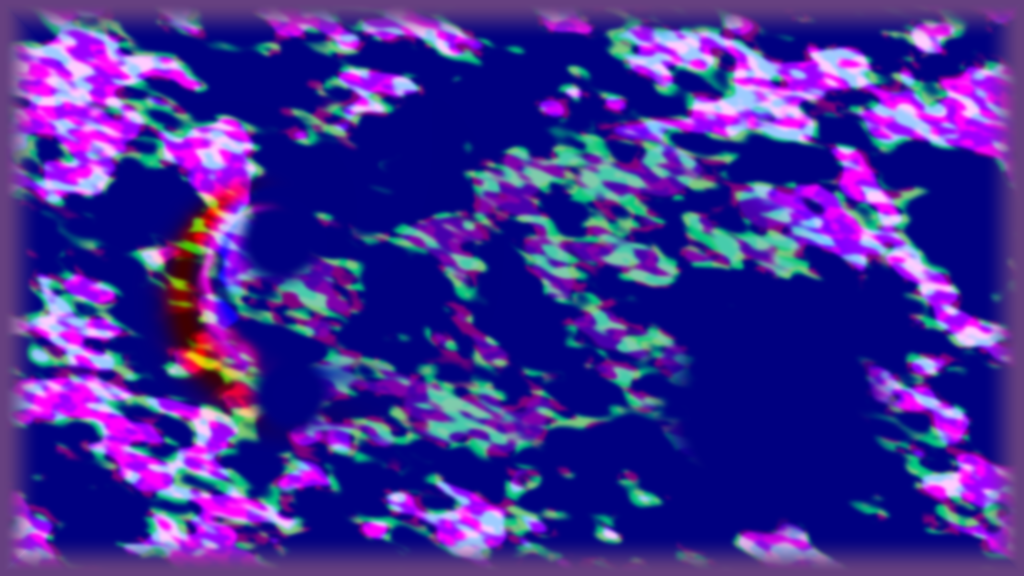
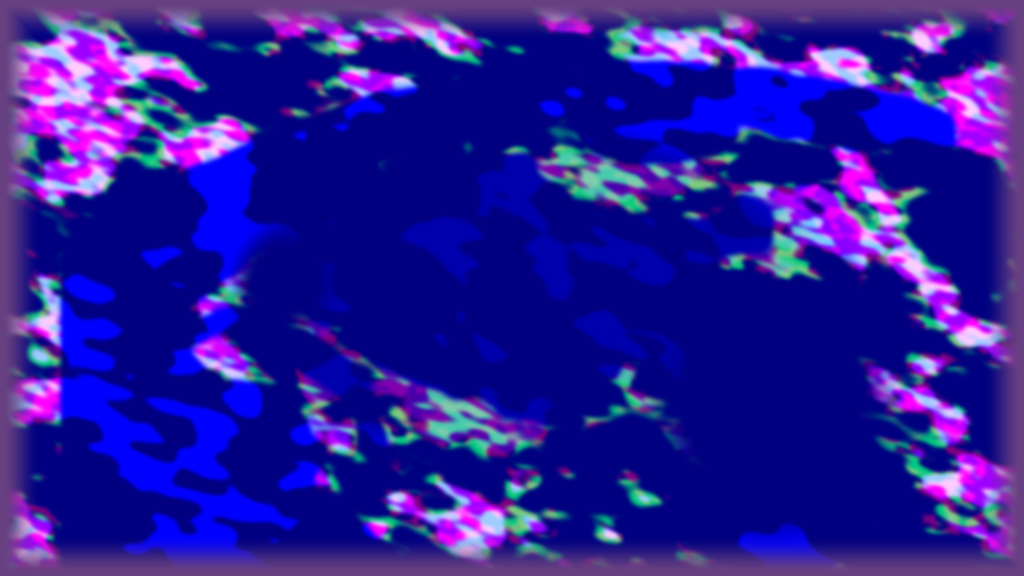
Two storms: the far low on the cyclone's sheet in open sea, patches with white tops, map clear of the body's outline and other land

diff --git a/src/places/reveal/shared/weather.ts b/src/places/reveal/shared/weather.ts
@@ -16,18 +16,15 @@ export const FOG_KM = 0.7;
 /** Km a second: staged far faster than weather, so the held frame is seen to live. */
 export const LOW_DRIFT: [number, number] = [5.4, 1.5];
 /** The small low far off toward the planet's edge, px of the master: the wind winds round it as round the cyclone, a quarter as wide. */
-export const LOW2 = { x: 360, y: 1150 };
-// How many storms the sea holds: 1 the cyclone alone, 2 with the far low at the head of its front, 3 with a small one to the
-// south-west. (The same number is given to assets-src/reveal/sky/make_weather.py as STORMS, which clears the sea round each.)
-export const STORMS = 3;
+export const LOW2 = { x: 400, y: 1560 };
+// How many storms the sea holds: 1 the cyclone alone, 2 with the far low. (The same number is given to
+// assets-src/reveal/sky/make_weather.py as STORMS, which clears the sea round each.)
+export const STORMS = 2;
 // The other storms, each drawn by the cyclone's sheet (sky/index.ts): where (px of the master), the half width of its sheet (the
 // cyclone's is 1250), how it is turned, where in the photographs its arms are taken from, and how much thinner it stands.
-export const OTHER_STORMS = [
-  { at: LOW2, half: 680, turn: 2.1, arms: [0.37, 0.61], thinner: 0.1 },
-  { at: { x: 470, y: 2760 }, half: 640, turn: 4.4, arms: [0.71, 0.23], thinner: 0.2 },
-] as const;
+export const OTHER_STORMS = [{ at: LOW2, half: 900, turn: 0.32, arms: [0.37, 0.61], thinner: 0.0 }] as const;
 // How far the weather systems travel down the wind for each unit of the weather's clock, km.
-export const SYSTEMS_RUN = 2.5;
+export const SYSTEMS_RUN = 0.9;
 /** The rectangle the map of the weather systems lies on (sky/weather.png, assets-src/reveal/sky/make_weather.py), as COVER_RECT is given. */
 export const WEATHER_RECT: [number, number, number, number] = [X(-2600), Z(-1400), 1 / (10800 * KM), 1 / (6075 * KM)];
 const LOW_MUCH = 1.0;
@@ -196,7 +193,7 @@ float lowHeld = 0.0;
 // The body of the low field at the point last asked of lowDepth, soft, 0 to 1: where its clusters, fronts and decks stand, with
 // none of their cells. It is what the moon shows of the weather by night.
 float lowBody = 0.0;
-float lowAmount(vec2 at, vec2 w) {
+float lowAmount(vec2 at) {
   vec3 stands = coverAt(at);
   float lake = smoothstep(100.0, 230.0, length(at - vec2(${f(X(AT.lake.x))}, ${f(Z(AT.lake.y))})));
   // The sky stands clear over the lake of the Eye, where the rise begins.
@@ -219,8 +216,14 @@ float lowAmount(vec2 at, vec2 w) {
 // chains is clear; and the streak photograph read sharp is the thin veil the wind draws out among them.
 float lowDepth(vec2 at) {
   vec4 gAt = GRADS(at);
-  vec2 w = lowGround(at);
-  float amount = lowAmount(at, w);
+  float amount = lowAmount(at);
+  lowWeigh = vec3(0.0);
+  lowNear = vec2(0.0);
+  lowBody = 0.0;
+  // (Where no cloud can stand, over the body and the clear sea, nothing more is worked out: the wind's map is the dear part of
+  // this function and most of the picture below orbit is such ground. The one change across the pixel that the reads below
+  // are made with, of the ground itself, is taken above, and every other is worked out from it: see GRADS and windG.)
+  if (amount <= 0.02 && lowHeld <= 0.0) return 0.0;
   // (The wind over an ocean does not blow straight: it meanders over a thousand kilometres, and within a few hundred it wanders
   // a few degrees either way. The ground is bent so before the wind's map is taken, by a field that stands on the planet.)
   vec2 bent = at + vec2(
@@ -259,10 +262,6 @@ float lowDepth(vec2 at) {
   // (A deck stands whole over such a place: it has no streets to draw out.)
   float calm = dot(windFp, windFp);
   float slack = smoothstep(0.1, 0.4, calm);
-  lowWeigh = vec3(0.0);
-  lowNear = vec2(0.0);
-  lowBody = 0.0;
-  if (amount <= 0.02 && lowHeld <= 0.0) return 0.0;
   // (The systems, read first, so most of the open sea, which is clear, costs one read and no more: red how much cloud a
   // system holds, green the veil, blue its kind (0 open cells, 0.5 cumulus in chains, 1 closed cells). The reads are all at
   // places and fineness worked out above: see GRADS.)
@@ -302,7 +301,7 @@ float lowDepth(vec2 at) {
   if (wound * closed > 0.0) whole = clamp(0.35 + 0.5 * cloudAt(uMatPopcorn, (at - systemsRun() - uWx * vec2(6.0, 2.0)) / 170.0 + vec2(0.21, 0.63), gAt / 170.0 * lowSoft, 0.34), 0.0, 1.0);
   // (A body is white and whole at its tops and has an edge: the wind-drawn photograph says where it is thick, the larger lay of
   // cumulus breaks it into tops a few pixels wide from orbit with the sea dark between them, and the smaller lay lumps each top.)
-  float form = mix(pow(max(chain - 0.4, 0.0), 1.3), 1.0, 0.7 * smoothstep(0.9, 0.99, systems.r));
+  float form = pow(max(chain - 0.4, 0.0), 1.3);
   float tops = form * (0.42 + 0.58 * smoothstep(0.45, 1.25, puff)) * (0.55 + 0.45 * smoothstep(0.35, 0.9, cell));
   float stood = smoothstep(0.16, 0.34, tops) * (1.0 + 2.6 * tops);
   float dense = max(knots * (0.25 + 1.5 * density) - 1.0, 0.0) + closed * cluster * mix(stood, 1.4 * whole, wound);

diff --git a/src/places/reveal/sky/index.ts b/src/places/reveal/sky/index.ts
@@ -192,7 +192,7 @@ void main() {
 // The cyclone: drawn from the Builder's photographs of wind-drawn streaks and of small cumulus, wound round its eye (the cyclone of round 19:
 // the photograph of a whole cyclone that stood here in round 25 read soft and flat at native size).
 // How another storm is drawn out (the cyclone's sheet, below): so much shorter all round, less so much on the side at this angle.
-const DRAWN_OUT = [0.35, 0.8, 0.9] as const;
+const DRAWN_OUT = [1.3, 2.0, 0.9] as const;
 // The part of its square sheet that another storm can reach, as [left, bottom, right, top] with the square -1 to 1: the sheet is
 // cut to it, so the clear sea round a storm that is drawn out to one side is not paid for.
 function reachOfOther(): [number, number, number, number] {
@@ -324,6 +324,8 @@ void main() {
   // Where it is thin it is haze over the sea, and blue as haze is; only the bands are white.
   // (A thin veil of high cloud lies over all of it and is drawn off one side, away down the wind, in long fine threads.)
   float veil = 0.04 * pow(1.0 - smoothstep(0.02, 0.85, r), 1.5) + 0.1 * (1.0 - smoothstep(0.004, 0.05, r));
+  // (Another storm's sheet is cut to its reach: its veil ends with it, well inside the cut.)
+  veil *= 1.0 - uOther.z * smoothstep(0.45, 0.85, r * max(shorter, 1.0));
   float bands = 0.96 * min(1.5 * thick, 1.0);
   float alpha = bands + veil * (1.0 - bands);
   colour = mix(dot(colour, vec3(0.3, 0.55, 0.15)) * vec3(0.6, 0.74, 0.98), colour, bands / max(alpha, 1e-3));
@@ -502,9 +504,9 @@ export function create(ctx: Context): Piece {
   });
   sheet('storm', quad({ x: AT.storm.x - 40, y: AT.storm.y }, 256, 80, 7, 0.03), STORM_FRAGMENT, { uPicture: { value: data('mat/storm.jpg', false) } });
   const cyclone = sheet('cyclone', quad(AT.cyclone, 1250, 1250, 6, 0), CYCLONE_FRAGMENT, { uStreaks: { value: data('mat/streaks.jpg', true) }, uOther: { value: new THREE.Vector4(0, 0, 0, 0) } });
-  // The other storms of the sea (shared/weather.ts, OTHER_STORMS): the far low at the head of its front and a small one to the
-  // south-west, each the cyclone's own sheet at its own size, turned its own way, with arms from another place in the photographs
-  // and no eye. They travel with the weather systems, slowly, down the wind.
+  // The other storms of the sea (shared/weather.ts, OTHER_STORMS): the far low, on the cyclone's own sheet at its own size, turned
+  // its own way, with arms from another place in the photographs, no eye, and drawn out on one side into its front. It travels
+  // with the weather systems, slowly, down the wind.
   const reach = reachOfOther();
   const others = OTHER_STORMS.slice(0, STORMS - 1).map((o) =>
     sheet(

diff --git a/assets-src/reveal/sky/make_weather.py b/assets-src/reveal/sky/make_weather.py
@@ -5,13 +5,15 @@ Writes public/assets/reveal/sky/weather.png, 1024 x 576, on the rectangle WEATHE
 (px of the master: x -2600 to 8200, y -1400 to 4675), as the systems stand at the titan frame (10027). They travel slowly with
 the far low; the cloud itself is the photographs, which stream through them faster (see lowDepth in weather.ts).
 
-  red    how much low cloud a system holds: 0 clear sea, about 0.5 broken cumulus at the edge of a patch, 1 a front, a storm or a deck
+  red    how much low cloud a system holds: 0 clear sea, about 0.5 broken cumulus at the edge of a patch, 1 the heart of a patch
   green  how much thin veil the wind draws out there
-  blue   the kind: 0 open cells (rings of cloud round clear air, behind the front), 0.5 cumulus in chains, 1 closed cells
+  blue   the kind: 0.5 cumulus in chains, 1 closed cells
+
+The map is clear round the two storms (each drawn by its own sheet), over the body's outline (public/assets/reveal/land/relief-a.png,
+read only) and over the other land.
 
 and then sets the red of public/assets/reveal/sky/cover.png (made by make_cover.py, which stands on the ground) to the cloud that
-other land and the ice hold: a deck over the ice edge, banks on the coast that faces the wind, cumulus banked against each island on the side the wind comes from and a street
-in its lee. Green and blue of cover.png are not touched. The mask of other land and ice is the ocean builder's
+other land and the ice hold: a deck over the ice edge, banks off the coast that faces the wind and a street in the lee of each island, none over the land itself. Green and blue of cover.png are not touched. The mask of other land and ice is the ocean builder's
 (assets-src/reveal/land/ocean/ocean-mask.png: px of the master x -1800 to 7416, y -800 to 4834; red other land, green ice); it is
 read and never copied. Without the mask the red of cover.png is left as it is.
 
@@ -33,9 +35,11 @@ MASK_RECT = (-1800.0, -800.0, 7416.0, 4834.0)
 W, H = 1024, 576
 X0, Y0, WIDE, HIGH = -2600.0, -1400.0, 10800.0, 6075.0
 # The far low (LOW2 of weather.ts), the cyclone, the middle of the body, and the way the low wind blows (px of the master, y down).
-LOW2 = (360.0, 1150.0)
+LOW2 = (400.0, 1560.0)
 CYCLONE = (5557.0, 3007.0)
-LOW3 = (470.0, 2760.0)
+# (Half the width of the far low's sheet, and how far the systems travel through the hold: OTHER_STORMS and SYSTEMS_RUN of weather.ts.)
+LOW2_HALF = 900.0
+TRAVEL = 95.0
 # How many storms the sea holds: 1 the cyclone alone, 2 with the far low and its front, 3 with the small one to the south-west.
 STORMS = int(os.environ.get('STORMS', '3'))
 BODY = (3000.0, 1750.0, 2900.0, 1700.0)
@@ -79,40 +83,32 @@ def weather():
     kind = 0.5 + 0.5 * smooth(0.25, 0.75, patch)
     green = 0.8 * smooth(0.45, 0.55, field) * smooth(0.4, 0.7, noise(rng, 7.0, 3.0, turn))
 
-    # The far low and its front: a comma. The band winds out of the low as the low wind winds into it (weather.ts: the turn
-    # falls by 2 for each e-fold of the distance), wide at the head and drawn thin down the tail, which ends in clear air.
-    dx, dy = mx - LOW2[0], my - LOW2[1]
-    r = np.maximum(np.hypot(dx, dy), 1.0)
-    th = np.arctan2(dy, dx)
-    # (How far round the arm a point is: the arm is the curve th + 2 ln r = const; s runs 0 at the head to 1 at the tail's end.)
-    phase = th + 2.0 * np.log(r / 95.0) - np.radians(47.0)
-    off = (phase + np.pi) % (2.0 * np.pi) - np.pi
-    along = np.log(r / 380.0) / np.log(1700.0 / 380.0)
-    width = 0.15 + 40.0 / r
-    ragged = 1.2 * width * (noise(rng, 6.0, 6.0) - 0.5)
-    band = np.exp(-((off + ragged) / width) ** 2) * smooth(-0.3, 0.05, along) * (1.0 - smooth(0.7, 1.05, along))
-    # (The low itself is a storm drawn by its own sheet, sky/index.ts: the band is its front, and it starts at the storm's rim.)
-    front = 0.88 * np.clip(band, 0.0, 1.0)
-    # (Ahead of the front, on the inside of the arm, the air is dry: a clear slot. Behind it, outside, cold air and open cells.)
-    ahead = np.exp(-((off + 2.0 * width) / (1.0 * width)) ** 2) * smooth(0.1, 0.4, along) * (1.0 - smooth(0.85, 1.1, along))
-    behind = np.exp(-((off - 3.2 * width) / (2.2 * width)) ** 2) * smooth(0.25, 0.5, along) * (1.0 - smooth(0.9, 1.2, along))
-    comma = 1.0 if STORMS >= 2 else 0.0
-    front, ahead, behind, _ = front * comma, ahead * comma, behind * comma, 0.0
-    red = red * (1.0 - 0.9 * ahead)
-    red = np.maximum(red, 0.5 * behind * (0.5 + 0.5 * smooth(0.35, 0.6, mid)))
-    kind = kind * (1.0 - behind)
-    red = np.maximum(red, front)
-    kind = np.maximum(kind, front)
-    green = green * (1.0 - 0.8 * ahead)
-
-    # The other storms are drawn by their own sheets (OTHER_STORMS of weather.ts): the sea stands clear under and round each,
-    # as round the cyclone, so nothing of this map is on a storm's disc.
-    for n, (sx, sy, half) in enumerate(((LOW2[0], LOW2[1], 680.0), (LOW3[0], LOW3[1], 640.0))):
-        if STORMS < n + 2:
-            break
-        clear = smooth(0.42 * half, 0.8 * half, np.hypot(mx - sx, my - sy))
+    # The far low is a storm drawn by its own sheet (OTHER_STORMS of weather.ts), front and all: the sea stands clear under and
+    # round it, as round the cyclone, so nothing of this map is on a storm's disc.
+    if STORMS >= 2:
+        clear = smooth(0.35 * LOW2_HALF, 0.7 * LOW2_HALF, np.hypot(mx - LOW2[0], my - LOW2[1]))
         red, green = red * clear, green * clear
         kind = 0.5 + (kind - 0.5) * clear
+
+    # No weather of this map over the body's outline nor over the other land. (The map travels down the wind through the hold,
+    # TRAVEL px of the master at the most: it is clear wherever the land will be under it.)
+    relief = np.asarray(Image.open(os.path.join(PUB, '..', 'land', 'relief-a.png')).convert('RGB'), dtype=np.float32)[..., 2] / 255.0
+    rw, rh = 5295.59, 5295.59 * 9 / 16
+    u = (mx - (2983.67 - rw / 2)) / rw * relief.shape[1] - 0.5
+    v = (my - (1727.13 - rh / 2)) / rh * relief.shape[0] - 0.5
+    body = ndimage.map_coordinates(relief, [v, u], order=1, mode='constant', cval=0.0) > 0.28
+    lands = body.astype(np.float32)
+    if os.path.exists(MASK):
+        mask = np.asarray(Image.open(MASK).convert('RGB'), dtype=np.float32)[..., 0] / 255.0
+        u = (mx - MASK_RECT[0]) / (MASK_RECT[2] - MASK_RECT[0]) * mask.shape[1] - 0.5
+        v = (my - MASK_RECT[1]) / (MASK_RECT[3] - MASK_RECT[1]) * mask.shape[0] - 0.5
+        lands = np.maximum(lands, (ndimage.map_coordinates(mask, [v, u], order=1, mode='constant', cval=0.0) > 0.3).astype(np.float32))
+    px = WIDE / W
+    under = lands.copy()
+    for back in np.arange(0.0, TRAVEL + 1.0, px):
+        under = np.maximum(under, ndimage.shift(lands, (-WIND[1] * back / px, -WIND[0] * back / px), order=1, mode='constant'))
+    off_land = 1.0 - smooth(0.03, 0.3, ndimage.gaussian_filter(under, 75.0 / px))
+    red, green = red * off_land, green * off_land
 
     # Nothing of this map stands over the cyclone's disc, nor crowds it: clear water round it.
     away = np.hypot(mx - CYCLONE[0], my - CYCLONE[1])
@@ -182,7 +178,8 @@ def held():
     for km in range(20, 340, 20):
         wake = np.maximum(wake, shifted(soft(isles, 8.0), float(km) + 25.0) * (1.0 - km / 340.0))
     wake = 0.55 * smooth(0.05, 0.3, wake)
-    red = np.maximum.reduce([0.58 * deck, 0.72 * banks, streets, 0.3 * cap * smooth(0.4, 0.6, lumps), wake])
+    # (No weather over the other land itself: what it holds stands off it, on the sea and on the ice.)
+    red = np.maximum.reduce([0.58 * deck, 0.72 * banks, streets, 0.3 * cap * smooth(0.4, 0.6, lumps), wake]) * (1.0 - smooth(0.05, 0.4, soft(land, 25.0)))
     # (Clear over the cyclone, as the map of the systems is.)
     ys, xs = np.mgrid[0:CH, 0:CW].astype(np.float32)
     away = np.hypot(CX0 + (xs + 0.5) * px - CYCLONE[0], CY0 + (ys + 0.5) * px - CYCLONE[1])

diff --git a/assets-src/reveal/sky/RECIPE.md b/assets-src/reveal/sky/RECIPE.md
@@ -39,22 +39,23 @@ y -820 to 3961.25). Where the weather stands:
 ## `public/assets/reveal/sky/weather.png`
 
 Made by: `assets-src/reveal/sky/make_weather.py` (Python 3 with numpy, scipy and Pillow), committed here
-From: nothing for `weather.png` (seeded noise and the places of the storms); for the red of `cover.png` the ocean builder's mask of other land and ice, `assets-src/reveal/land/ocean/ocean-mask.png`, read and never copied
-Prompt or command: `python3 assets-src/reveal/sky/make_weather.py`, from the root of the repo, after `make_cover.py`; `STORMS=1`, `2` or `3` before it sets how many storms the sea holds (3 is what is committed); no model and no prompt; the only noise is of fixed seeds
-Takes: 9 made (an even field of small cumulus; clusters with lanes; the comma of the far low with its dry slot and open cells; decks kept away from the body; then, after the lead's word that small marks read as an even speckle at 960 x 540, large patches with clear sea between; fewer of them; a third small storm; its arms left whole; the banks of the far coast thinner); the ninth is kept
-Why this one: at 960 x 540 the sea reads as large patches, a front and storms with clear water between, and the body stays clear
+From: seeded noise and the place of the far low; the body's outline from `public/assets/reveal/land/relief-a.png` (blue over 0.28, read only) and the ocean builder's mask of other land and ice, `assets-src/reveal/land/ocean/ocean-mask.png`, read and never copied, as it stands at commit 507b689 of the ocean branch (the same mask sets the red of `cover.png`)
+Prompt or command: `python3 assets-src/reveal/sky/make_weather.py [mask]`, from the root of the repo, after `make_cover.py` (the mask is the repo's own unless one is named; what is committed was made with `git show 507b689:assets-src/reveal/land/ocean/ocean-mask.png` written to a scratch file and named); `STORMS=1` or `2` before it sets how many storms the sea holds (2 is what is committed); no model and no prompt; the only noise is of fixed seeds
+Takes: 10 made (an even field of small cumulus; clusters with lanes; the comma of the far low with its dry slot and open cells; decks kept away from the body; then, after the lead's word that small marks read as an even speckle at 960 x 540, large patches with clear sea between; fewer of them; a third small storm; its arms left whole; the banks of the far coast thinner; then, after the ruling that only a crisp storm reads as weather, the painted front and the third storm taken out, the far low moved to open sea and the map cleared over the body's outline and the other land); the tenth is kept
+Why this one: at 960 x 540 the sea reads as large white patches and two storms with clear water between, and nothing of the map is over the body's outline or the other land
 Date: 2026-11-28
 
 1024 x 576, on the rectangle `WEATHER_RECT` of `src/places/reveal/shared/weather.ts` (px of the master: x -2600 to 8200, y -1400 to 4675).
 The weather systems as they stand at the titan frame; they travel slowly down the wind and the cloud streams through them faster.
 Used by: `src/places/reveal/shared/weather.ts` (`lowDepth`), read by the part `reveal/cloud` and by the shade on the land.
 
-- red: how much low cloud a system holds: 0 clear sea, about 0.5 broken cumulus at the edge of a patch, 1 a front, a storm or a deck.
+- red: how much low cloud a system holds: 0 clear sea, about 0.5 broken cumulus at the edge of a patch, 1 the heart of a patch.
 - green: how much thin veil the wind draws out there.
-- blue: the kind: 0 open cells behind the front, 0.5 cumulus in chains, 1 a patch with a body (closed cells).
+- blue: the kind: 0.5 cumulus in chains, 1 a patch with a body (closed cells).
 
-The systems: large patches over the open sea, few near the body; the far low (`LOW2`, px 300, 900) with its front, a comma; a small
-storm to the south-west (px 60, 3080) with two arms round a whole heart; clear water 850 to 1450 px round the cyclone.
+The systems: large patches over the open sea, none over the body's outline nor over the other land (clear wherever land will be
+under the map as it travels, 95 px at the most); clear water round the far low (`LOW2`, px 400, 1560), which is drawn by its own
+sheet (`OTHER_STORMS` of `shared/weather.ts`, the cyclone's fragment in `sky/index.ts`); clear water 850 to 1450 px round the cyclone.
 
 The same script sets the red of `cover.png` (above); its green and blue are unchanged to the last bit.
 

diff --git a/assets-src/reveal/ROWS-reveal_weather_builder_n30.md b/assets-src/reveal/ROWS-reveal_weather_builder_n30.md
@@ -2,5 +2,5 @@
 
 | file | what | tool or model | prompt | take | date |
 | --- | --- | --- | --- | --- | --- |
-| public/assets/reveal/sky/weather.png | The weather systems of the open sea on the rectangle WEATHER_RECT (large patches, the far low and its front, a small storm to the south-west): red how much low cloud, green how much veil, blue the kind (open cells, cumulus in chains, a patch with a body). 1024 x 576, 0.5 MB. | assets-src/reveal/sky/make_weather.py (Python 3, numpy, scipy, Pillow), seeded noise | none: computed, no model | 9 | 2026-11-28 |
-| public/assets/reveal/sky/cover.png | The red channel made again: the cloud that other land and the ice hold (deck over the ice edge, banks on the windward coast, lee streets, cloud against the islands and their wakes). Green and blue unchanged to the last bit. 2048 x 1152, 0.8 MB. | assets-src/reveal/sky/make_weather.py, from the ocean builder's mask assets-src/reveal/land/ocean/ocean-mask.png (read, not copied) | none: computed, no model | 9 | 2026-11-28 |
+| public/assets/reveal/sky/weather.png | The weather systems of the open sea on the rectangle WEATHER_RECT (large patches, clear round the two storms, over the body's outline and over the other land): red how much low cloud, green how much veil, blue the kind (cumulus in chains, a patch with a body). 1024 x 576, 0.3 MB. | assets-src/reveal/sky/make_weather.py (Python 3, numpy, scipy, Pillow), seeded noise, the body's outline from public/assets/reveal/land/relief-a.png and the ocean builder's mask (both read, not copied) | none: computed, no model | 10 | 2026-11-28 |
+| public/assets/reveal/sky/cover.png | The red channel made again: the cloud that other land and the ice hold (deck over the ice edge, banks off the windward coast, lee streets and the wakes of the islands, none over the land itself). Green and blue unchanged to the last bit. 2048 x 1152, 0.8 MB. | assets-src/reveal/sky/make_weather.py, from the ocean builder's mask assets-src/reveal/land/ocean/ocean-mask.png as at 507b689 (read, not copied) | none: computed, no model | 10 | 2026-11-28 |
